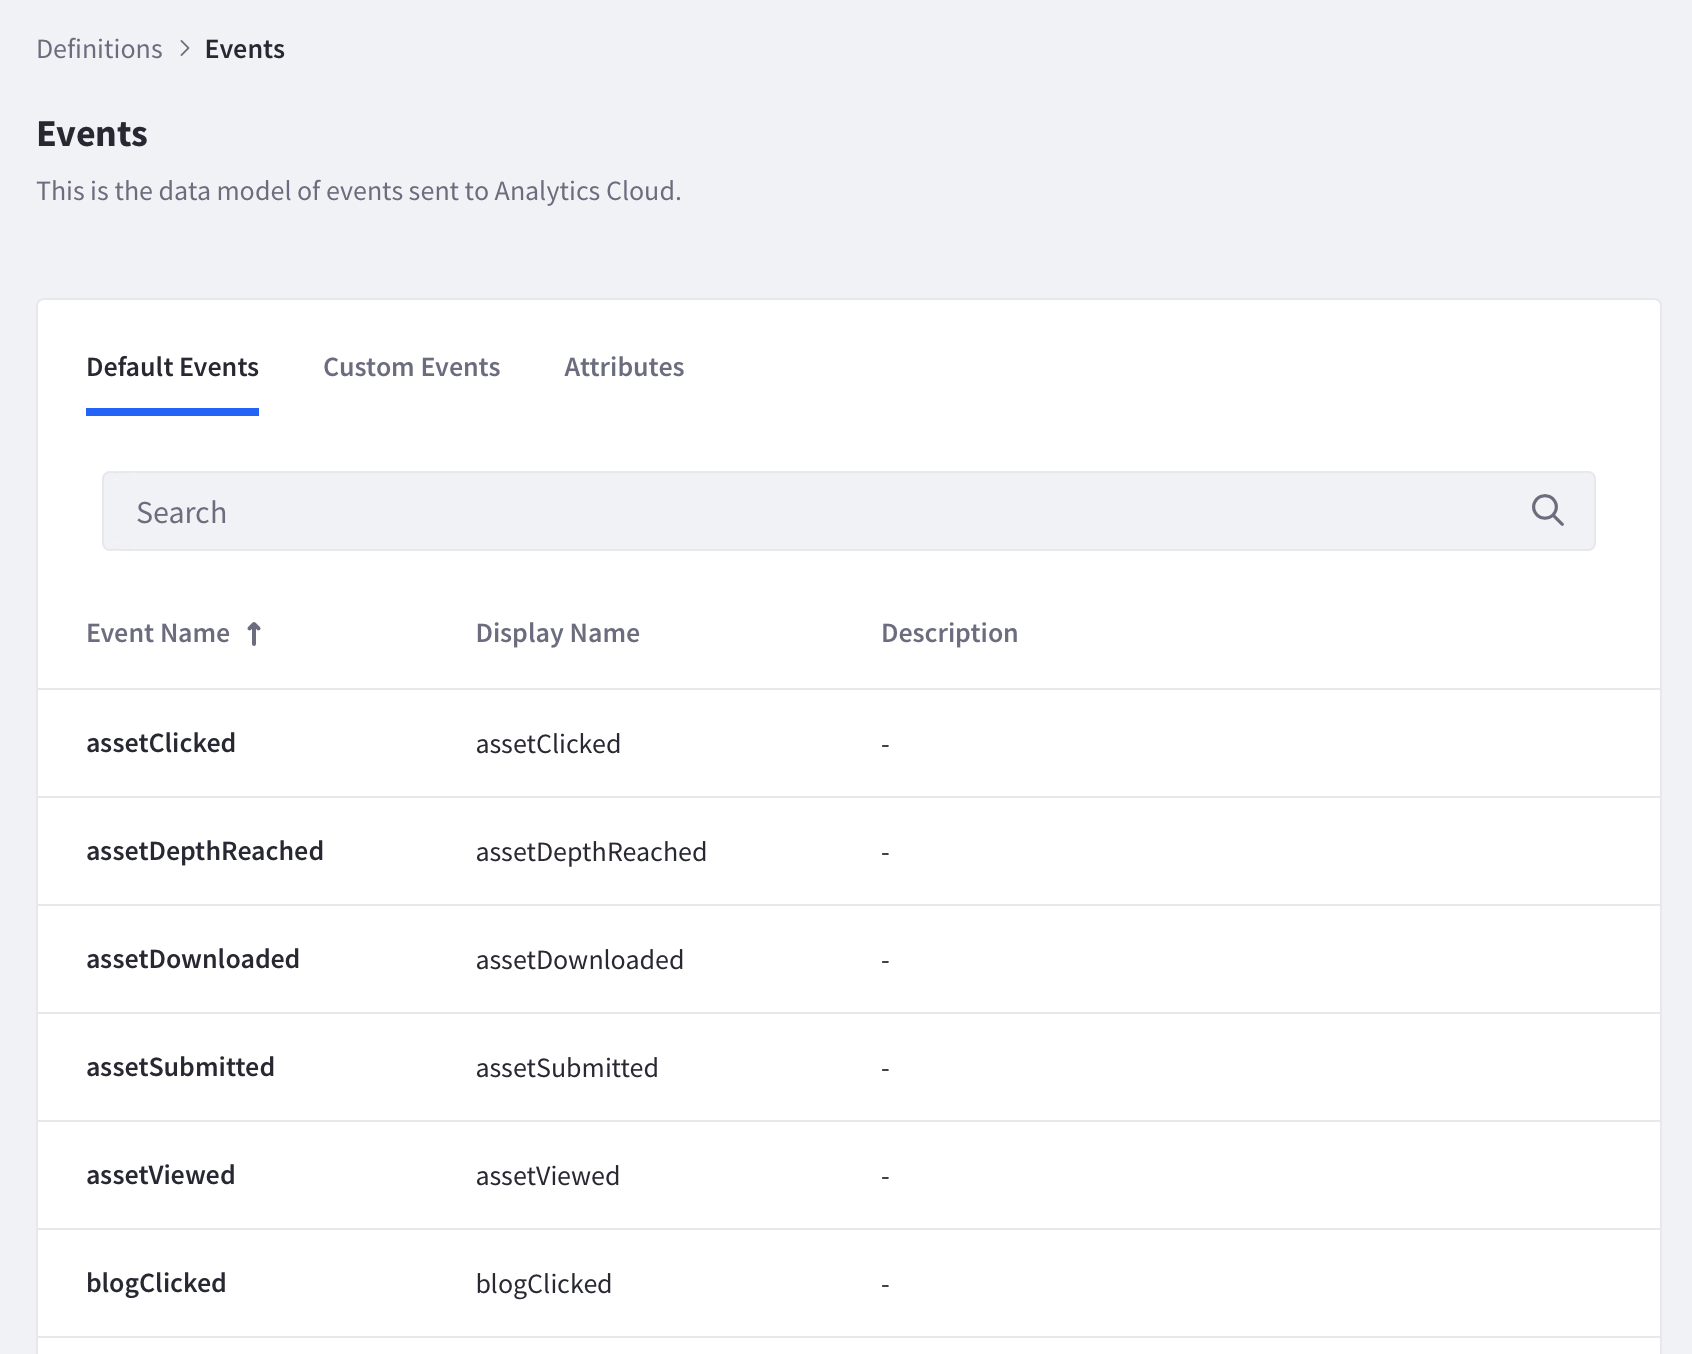
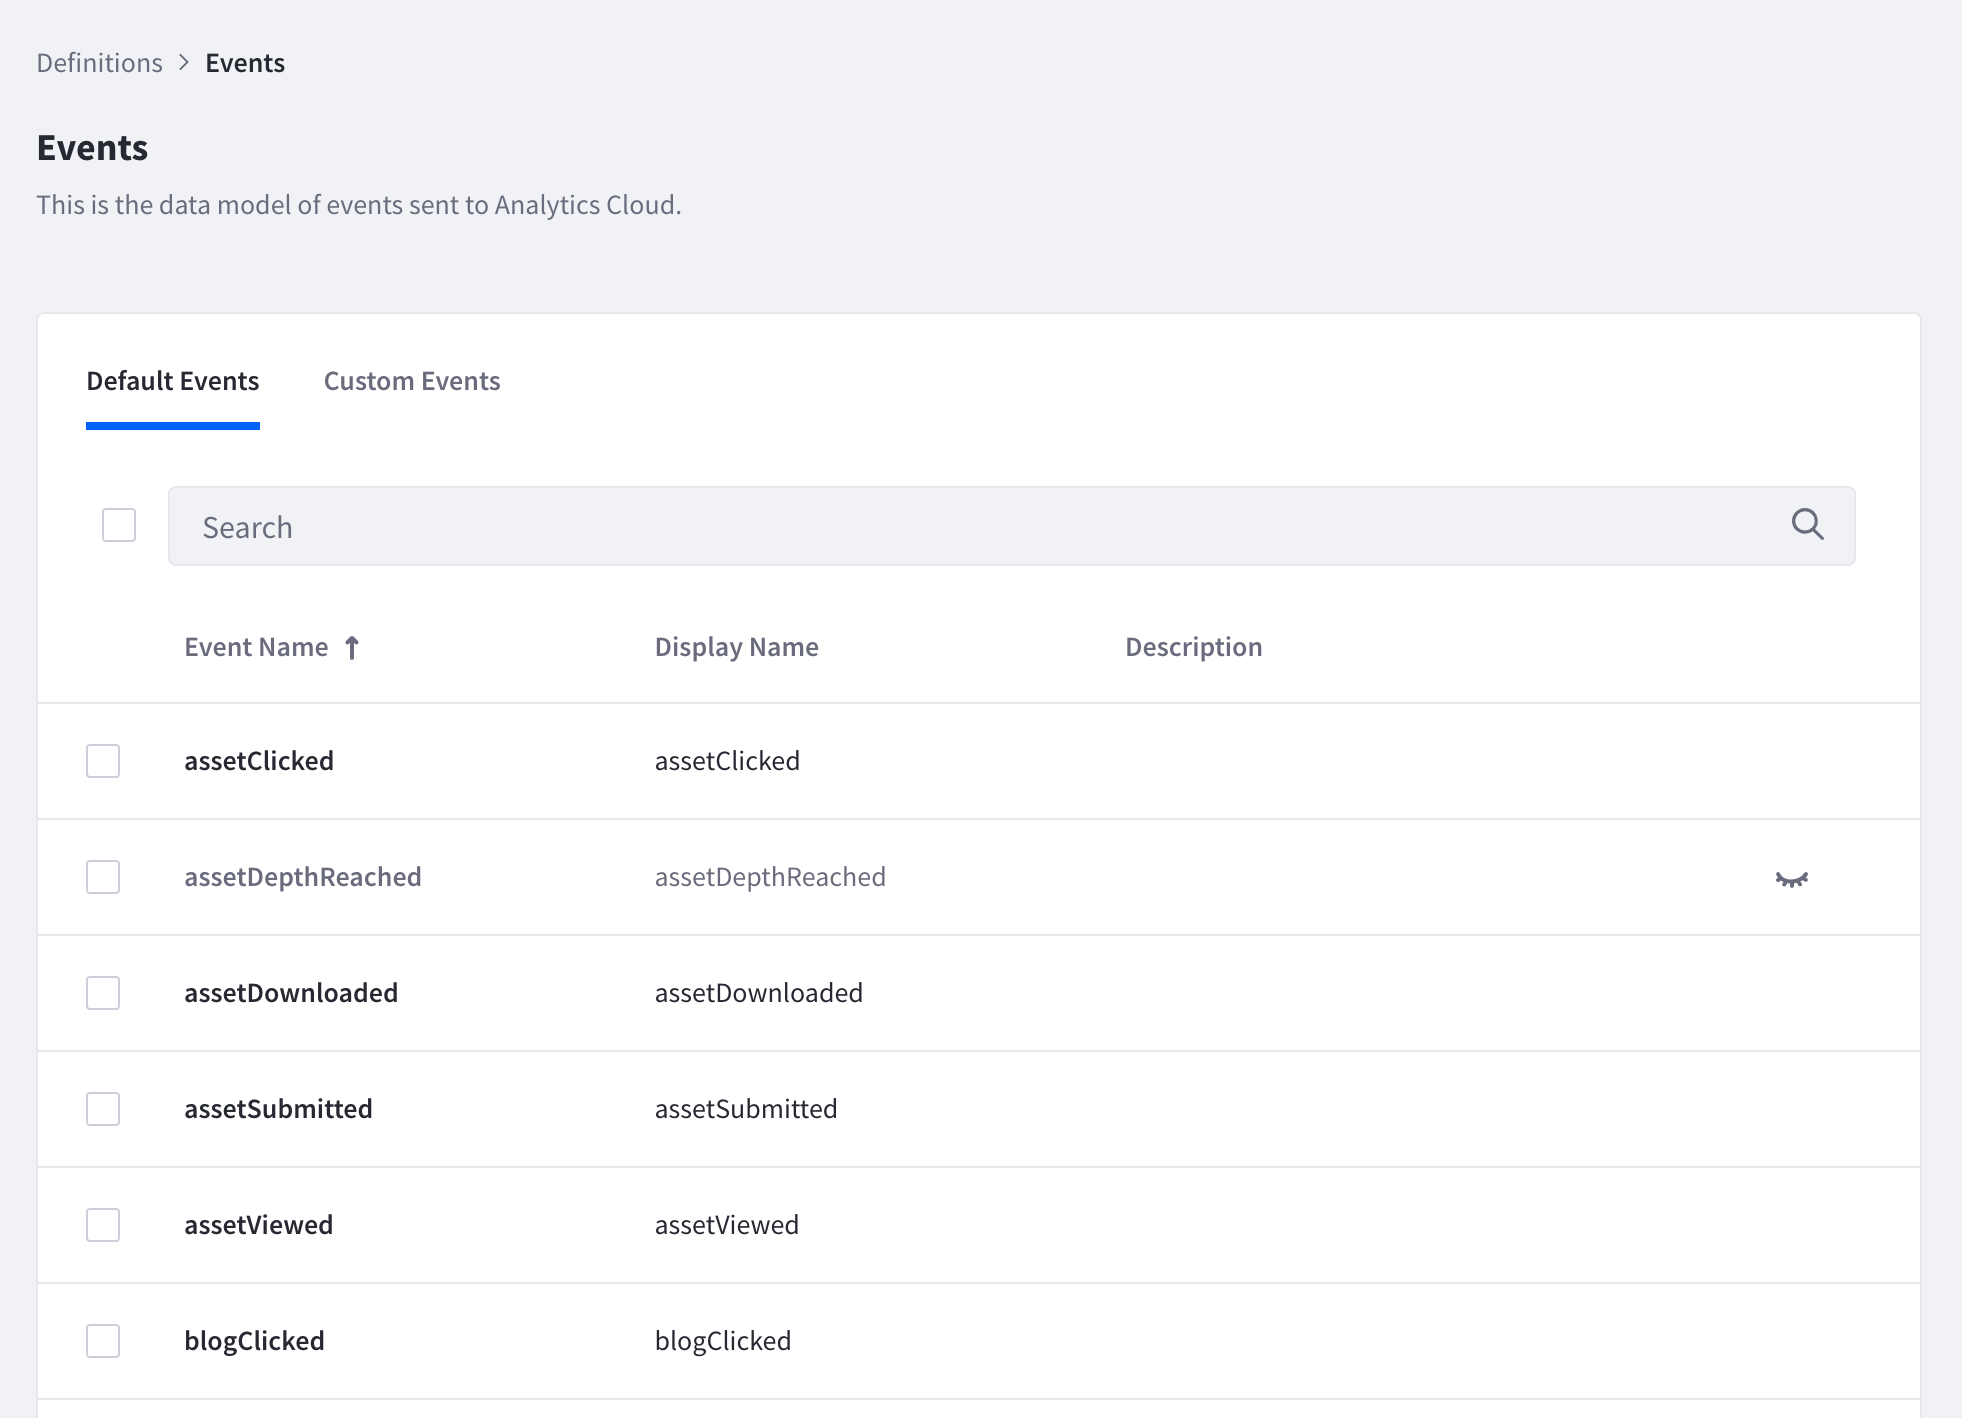
LRDOCS-9507 draft article 2

diff --git a/docs/analytics-cloud/latest/en/workspace-data/definitions/definitions-for-events.md b/docs/analytics-cloud/latest/en/workspace-data/definitions/definitions-for-events.md
@@ -1,6 +1,6 @@
 # Definitions for Events
 
-Analytics Cloud tracks default and custom events that occur on your DXP instance. To view and manage how these events and their attributes are defined, navigate to *Settings* &rarr; *Workspace Data* &rarr; *Definitions* &rarr; *Events*.
+Analytics Cloud tracks default and custom events that occur on your DXP instance. To view and manage how these events are defined, navigate to *Settings* &rarr; *Workspace Data* &rarr; *Definitions* &rarr; *Events*.
 
 ![View the default and custom events as well as their attributes in settings.](./definitions-for-events/images/01.png)
 
@@ -17,14 +17,14 @@ The attributes are presented in a list with the following properties:
 * Attribute Name
 * Display Name
 * Description
-* Sample Value
+* Sample Raw Data
 * Data Typecast
 
 A sample Javascript snippet is also provided to serve as a template for defining custom events. Check or uncheck the attributes you need and click the *Copy* button to copy the code snippet.
 
 ## Custom Events
 
-Custom events are a useful way to define and track events that are specific to your business needs. For example, you might track a form on your site that customers use to make payments. Once the specific event is defined and configured on your site, Analytics Cloud will begin collecting data from the form. 
+Custom events are a useful way to define and track events that are specific to your business needs. For example, you might track a form on your site that customers use to make payments. Once the specific event is defined and configured on your site, Analytics Cloud will begin collecting data for the event. 
 
 Click on the *Custom Events* tab to see all the events that have been defined and are being tracked. Note that there is a limit of 100 custom events that can be tracked at any given time. 
 
@@ -39,7 +39,7 @@ The attributes are presented in a list with the following properties:
 * Attribute Name
 * Display Name
 * Description
-* Sample Value
+* Sample Raw Data
 * Data Typecast
 
 The image above shows an example of how a custom event might track attributes such as payment type, total amount, and whether autopay was selected.
@@ -48,20 +48,10 @@ Click the *Edit* button to edit the Display Name or Description of the custom ev
 
 ### Block List
 
-Any custom event that is in the Block List is an event that is not processed by Analytics Cloud. Note that once the 100 event limit is reached, any new custom event will automatically be added to the block list. To see the list of blocked events, click *Block List*.
+Any custom event that is in the Block List is an event that is not processed by Analytics Cloud. Note that once the 100 event limit is reached, any new custom event will automatically be added to the block list. To see the list of blocked events, click *Block List* under the Custom Events tab.
 
 To unblock a custom event from the Block List, place a checkmark next to the event and click *Unblock Events*. Or click the unblock icon (![unblock icon](../../images/icon-unblock.png)) to the right of the event name.
 
 ![Select a custom event and click Unblock Events.](./definitions-for-events/images/04.png)
 
 To add a custom event to the block list, from the Custom Events tab place a checkmark next to the event and click *Block Events*. Or click the block icon (![block icon](../../images/icon-block.png)) next to the event name.
-
-## Attributes
-
-Click the *Attributes* tab to see a list of all the attributes that make up default events and custom events.
-
-Clicking an attribute will display sample data of the attribute. Click the *Edit* button to edit the Display Name, Description, or Default Data Typecast of the attribute. 
-
-![Click the Edit button to make changes to the attribute.](./definitions-for-events/images/05.png)
-
-The following Data Typecast are available: Boolean, Date, Duration, Number, and String. Note that Analytics Cloud automatically detects the data type of the attribute.

diff --git a/docs/analytics-cloud/latest/en/workspace-data/definitions/event-attributes.md b/docs/analytics-cloud/latest/en/workspace-data/definitions/event-attributes.md
@@ -1,0 +1,17 @@
+# Event Attributes
+
+Different attributes are associated with default and custom events. Global attributes are attributes that are collected for all types of events. Other attributes are specific to different types of events. To view and manage event attributes, navigate to *Settings* &rarr; *Workspace Data* &rarr; *Definitions* &rarr; *Event Attributes*.
+
+1. Choose a specific attribute under the Global Attributes tab or the Attributes tab. Use the search bar to find a particular attribute.
+
+    ![Select or search for a specific event attribute.](./event-attributes/images/01.png)
+
+2. Click an attribute to see more details. The Sample Raw Data column shows recent data of that particular attribute. The Last Seen column shows data of when the attribute was last seen. 
+
+    ![View the details of a particular attribute.](./event-attributes/images/02.png)
+   
+3. Click the *Edit* button to edit the Display Name, Description, or Default Data Typecast of the attribute. 
+
+    ![Click the Edit button to make changes to the event attribute.](./event-attributes/images/03.png)
+
+    The following data typecasts are available: Boolean, Date, Duration, Number, and String. Note that for most attributes Analytics Cloud automatically detects the data type. Make changes if necessary.
